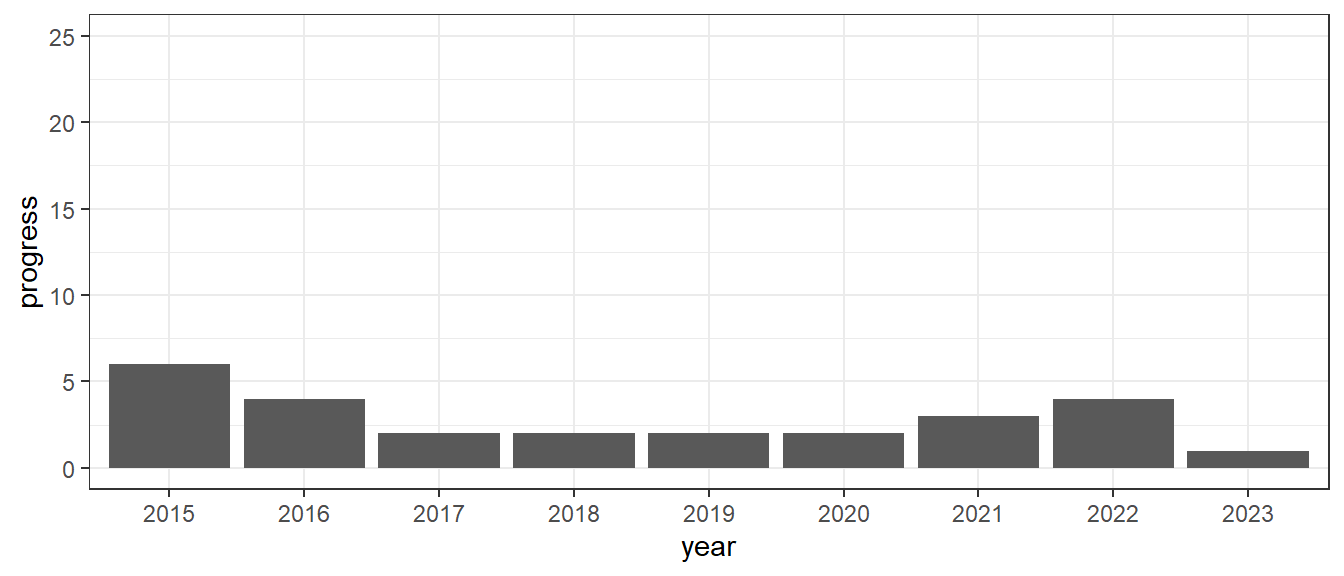
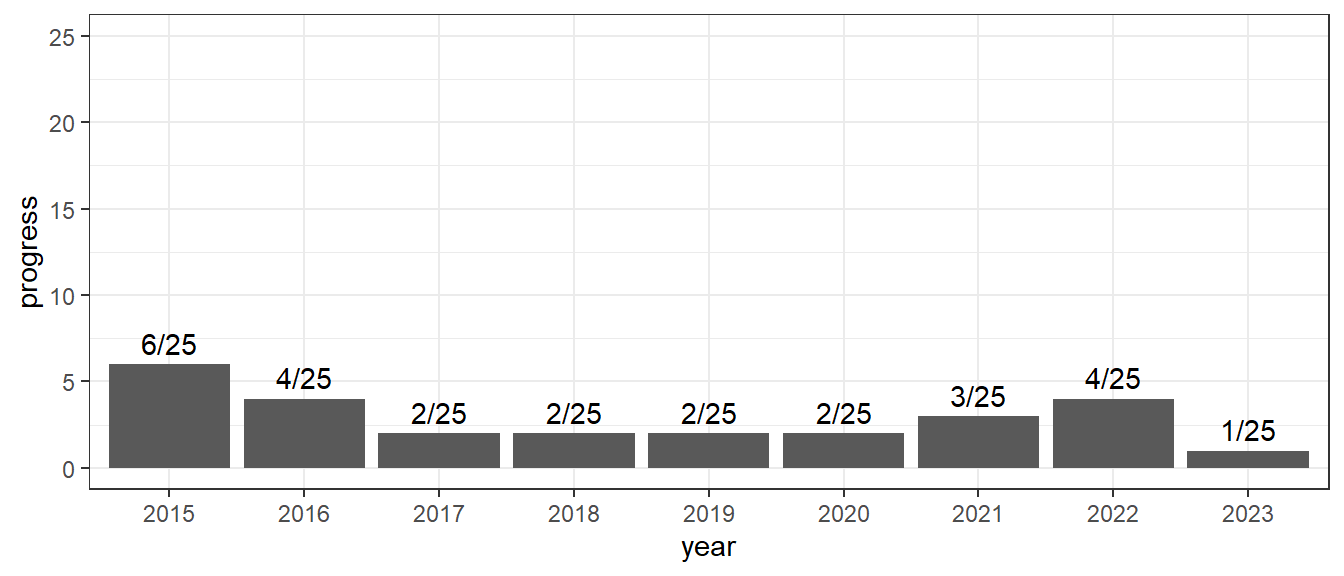
2023 menu + progress plot labels

diff --git a/docs/solutions/2015/01.html b/docs/solutions/2015/01.html
@@ -162,6 +162,10 @@ pre > code.sourceCode > span > a:first-child::before { text-decoration: underlin
     <a class="dropdown-item" href="../../solutions/2022/01.html">
  <span class="dropdown-text">2022</span></a>
   </li>  
+        <li>
+    <a class="dropdown-item" href="../../solutions/2023/01.html">
+ <span class="dropdown-text">2023</span></a>
+  </li>  
     </ul>
   </li>
 </ul>

diff --git a/docs/solutions/2015/02.html b/docs/solutions/2015/02.html
@@ -162,6 +162,10 @@ pre > code.sourceCode > span > a:first-child::before { text-decoration: underlin
     <a class="dropdown-item" href="../../solutions/2022/01.html">
  <span class="dropdown-text">2022</span></a>
   </li>  
+        <li>
+    <a class="dropdown-item" href="../../solutions/2023/01.html">
+ <span class="dropdown-text">2023</span></a>
+  </li>  
     </ul>
   </li>
 </ul>

diff --git a/docs/solutions/2015/03.html b/docs/solutions/2015/03.html
@@ -162,6 +162,10 @@ pre > code.sourceCode > span > a:first-child::before { text-decoration: underlin
     <a class="dropdown-item" href="../../solutions/2022/01.html">
  <span class="dropdown-text">2022</span></a>
   </li>  
+        <li>
+    <a class="dropdown-item" href="../../solutions/2023/01.html">
+ <span class="dropdown-text">2023</span></a>
+  </li>  
     </ul>
   </li>
 </ul>

diff --git a/docs/solutions/2015/04.html b/docs/solutions/2015/04.html
@@ -162,6 +162,10 @@ pre > code.sourceCode > span > a:first-child::before { text-decoration: underlin
     <a class="dropdown-item" href="../../solutions/2022/01.html">
  <span class="dropdown-text">2022</span></a>
   </li>  
+        <li>
+    <a class="dropdown-item" href="../../solutions/2023/01.html">
+ <span class="dropdown-text">2023</span></a>
+  </li>  
     </ul>
   </li>
 </ul>

diff --git a/docs/solutions/2015/05.html b/docs/solutions/2015/05.html
@@ -162,6 +162,10 @@ pre > code.sourceCode > span > a:first-child::before { text-decoration: underlin
     <a class="dropdown-item" href="../../solutions/2022/01.html">
  <span class="dropdown-text">2022</span></a>
   </li>  
+        <li>
+    <a class="dropdown-item" href="../../solutions/2023/01.html">
+ <span class="dropdown-text">2023</span></a>
+  </li>  
     </ul>
   </li>
 </ul>

diff --git a/docs/solutions/2015/06.html b/docs/solutions/2015/06.html
@@ -162,6 +162,10 @@ pre > code.sourceCode > span > a:first-child::before { text-decoration: underlin
     <a class="dropdown-item" href="../../solutions/2022/01.html">
  <span class="dropdown-text">2022</span></a>
   </li>  
+        <li>
+    <a class="dropdown-item" href="../../solutions/2023/01.html">
+ <span class="dropdown-text">2023</span></a>
+  </li>  
     </ul>
   </li>
 </ul>

diff --git a/docs/solutions/2016/01.html b/docs/solutions/2016/01.html
@@ -162,6 +162,10 @@ pre > code.sourceCode > span > a:first-child::before { text-decoration: underlin
     <a class="dropdown-item" href="../../solutions/2022/01.html">
  <span class="dropdown-text">2022</span></a>
   </li>  
+        <li>
+    <a class="dropdown-item" href="../../solutions/2023/01.html">
+ <span class="dropdown-text">2023</span></a>
+  </li>  
     </ul>
   </li>
 </ul>

diff --git a/docs/solutions/2016/02.html b/docs/solutions/2016/02.html
@@ -162,6 +162,10 @@ pre > code.sourceCode > span > a:first-child::before { text-decoration: underlin
     <a class="dropdown-item" href="../../solutions/2022/01.html">
  <span class="dropdown-text">2022</span></a>
   </li>  
+        <li>
+    <a class="dropdown-item" href="../../solutions/2023/01.html">
+ <span class="dropdown-text">2023</span></a>
+  </li>  
     </ul>
   </li>
 </ul>

diff --git a/docs/solutions/2016/03.html b/docs/solutions/2016/03.html
@@ -162,6 +162,10 @@ pre > code.sourceCode > span > a:first-child::before { text-decoration: underlin
     <a class="dropdown-item" href="../../solutions/2022/01.html">
  <span class="dropdown-text">2022</span></a>
   </li>  
+        <li>
+    <a class="dropdown-item" href="../../solutions/2023/01.html">
+ <span class="dropdown-text">2023</span></a>
+  </li>  
     </ul>
   </li>
 </ul>

diff --git a/docs/solutions/2016/04.html b/docs/solutions/2016/04.html
@@ -162,6 +162,10 @@ pre > code.sourceCode > span > a:first-child::before { text-decoration: underlin
     <a class="dropdown-item" href="../../solutions/2022/01.html">
  <span class="dropdown-text">2022</span></a>
   </li>  
+        <li>
+    <a class="dropdown-item" href="../../solutions/2023/01.html">
+ <span class="dropdown-text">2023</span></a>
+  </li>  
     </ul>
   </li>
 </ul>

diff --git a/docs/solutions/2017/01.html b/docs/solutions/2017/01.html
@@ -162,6 +162,10 @@ pre > code.sourceCode > span > a:first-child::before { text-decoration: underlin
     <a class="dropdown-item" href="../../solutions/2022/01.html">
  <span class="dropdown-text">2022</span></a>
   </li>  
+        <li>
+    <a class="dropdown-item" href="../../solutions/2023/01.html">
+ <span class="dropdown-text">2023</span></a>
+  </li>  
     </ul>
   </li>
 </ul>

diff --git a/docs/solutions/2017/02.html b/docs/solutions/2017/02.html
@@ -162,6 +162,10 @@ pre > code.sourceCode > span > a:first-child::before { text-decoration: underlin
     <a class="dropdown-item" href="../../solutions/2022/01.html">
  <span class="dropdown-text">2022</span></a>
   </li>  
+        <li>
+    <a class="dropdown-item" href="../../solutions/2023/01.html">
+ <span class="dropdown-text">2023</span></a>
+  </li>  
     </ul>
   </li>
 </ul>
